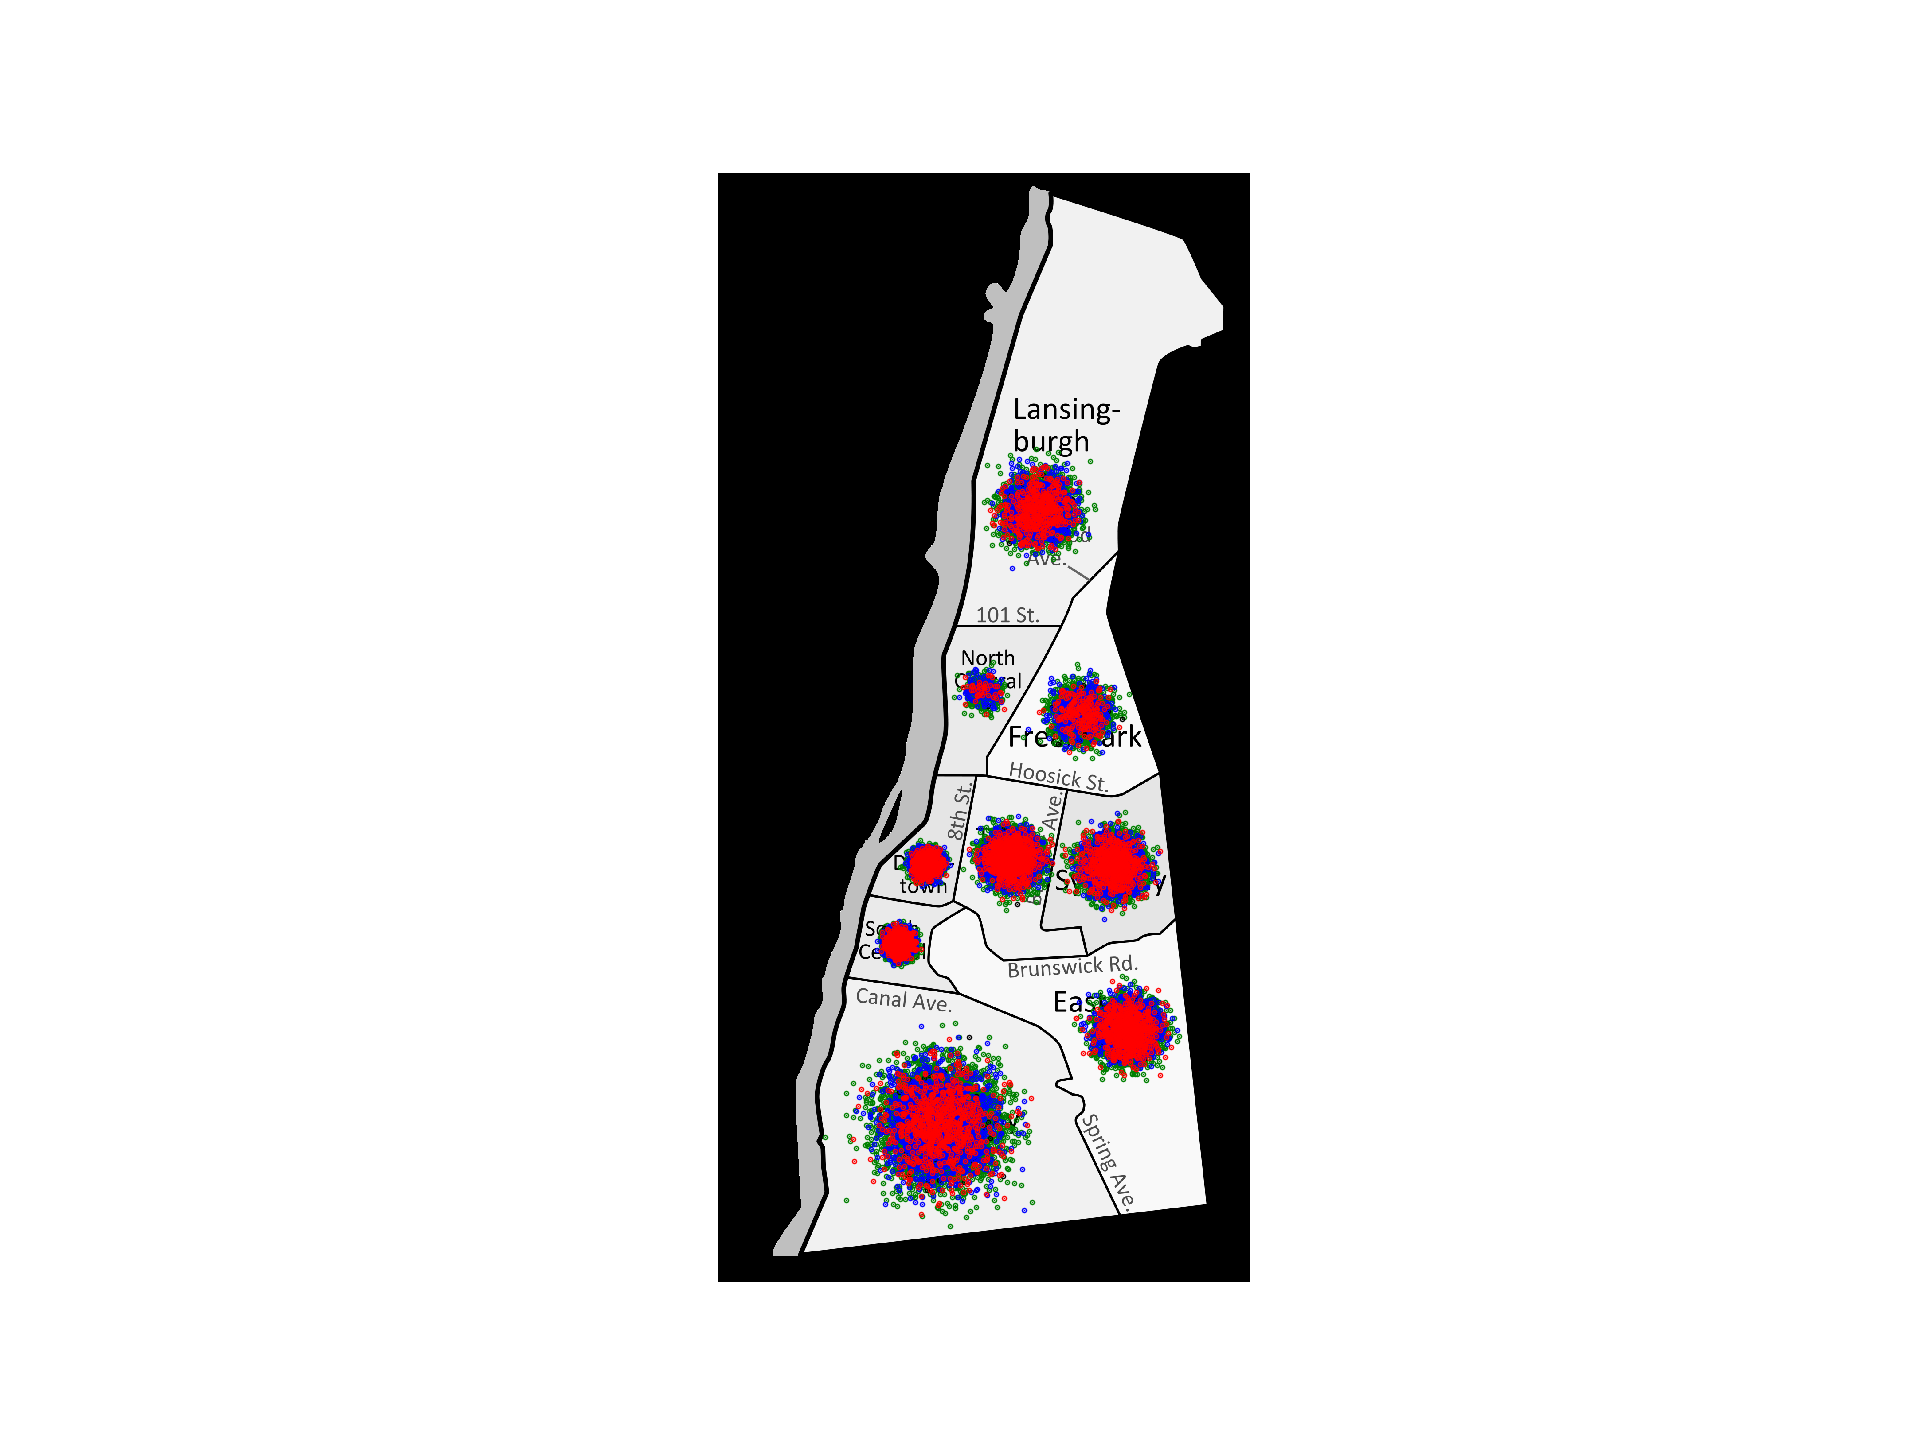
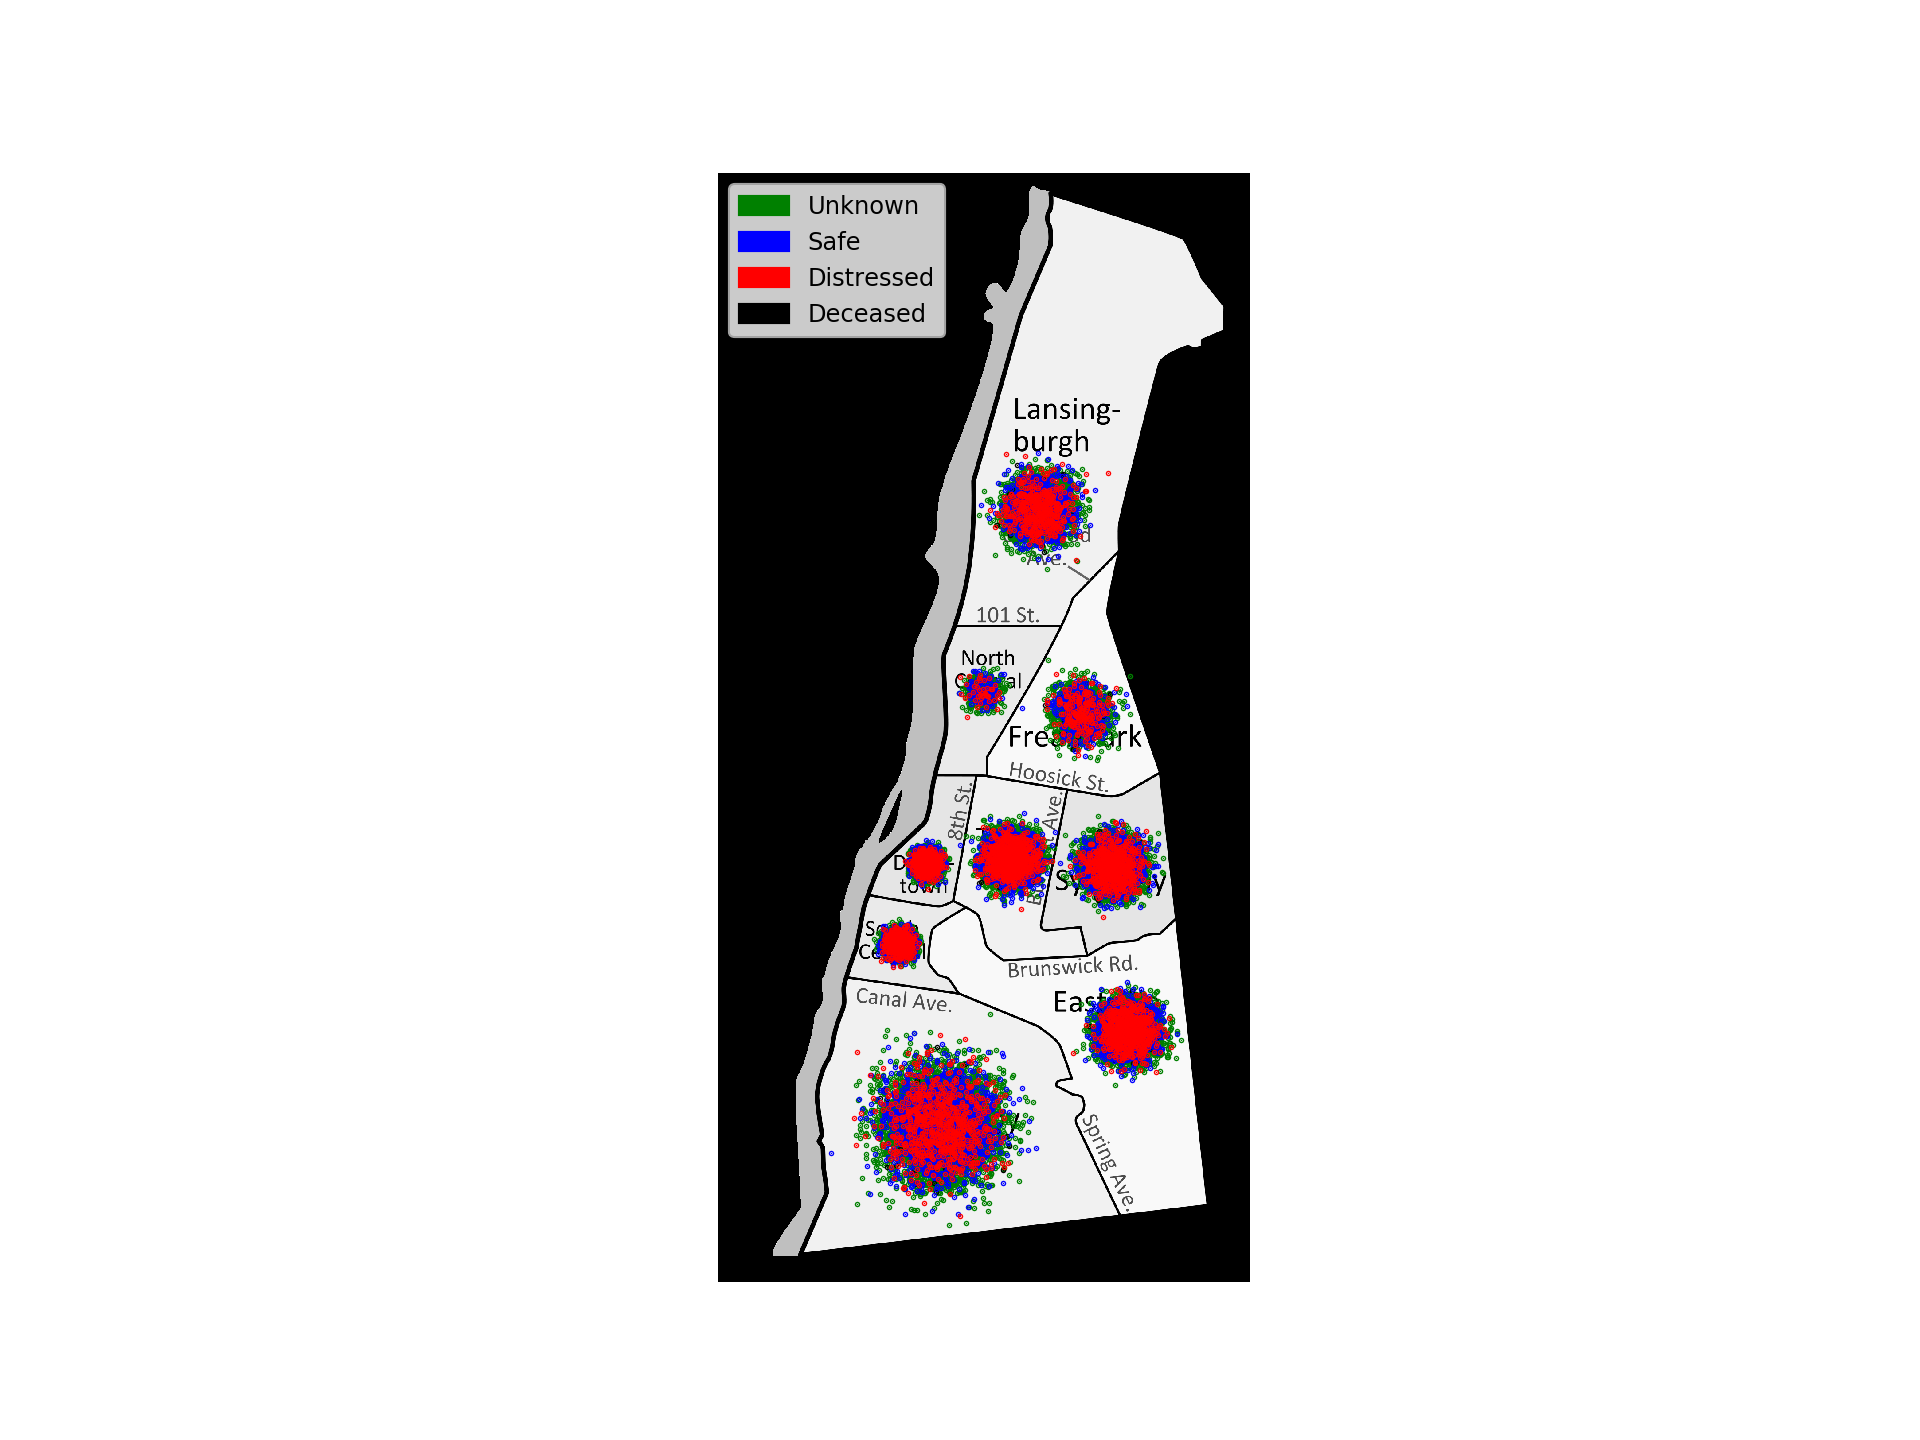
add legend

diff --git a/visualization/main.py b/visualization/main.py
@@ -4,13 +4,14 @@ import matplotlib as mpl
 mpl.use('TkAgg')
 mpl.rcParams['figure.dpi']= 300
 import matplotlib.pyplot as plt
+import matplotlib.patches as mpatches
 import cv2
 import json
 
 
 
 '''
-Troy population- 49374
+Troy population- 49874
 find centers of districts with distance to border 
     or pick n centers
 assign population to districts
@@ -18,7 +19,7 @@ assign population to districts
     for each person in a district, generate their distance from center with a Gaussian
 
 distribution
-49374
+49874
 downtown        8174
 the hill        8000
 south central   7500
@@ -27,7 +28,11 @@ Eastside        6700
 Sycaway         6000
 Lansingburgh    4000
 Frear park      2000
+North Central   500
 '''
+
+# TODO: add axes
+#
 
 class Event:
     def __init__(self, uid, status, time, xloc, yloc):
@@ -47,6 +52,16 @@ class City:
 
         for dname in self.districts:
             self.districts[dname].plotPop()
+
+        #Add legend
+        green_patch = mpatches.Patch(color='green', label='Unknown')
+        blue_patch = mpatches.Patch(color='blue', label='Safe')
+        red_patch = mpatches.Patch(color='red', label='Distressed')
+        black_patch = mpatches.Patch(color='black', label='Deceased')
+
+        lines = [green_patch, blue_patch, red_patch, black_patch]
+        labels = [line.get_label() for line in lines]
+        plt.legend(lines, labels, loc = 'upper left', fontsize = 'xx-small')
         
         #should clear plt
         #plt.show()
@@ -119,8 +134,12 @@ class District:
             if event.uid in self.safeUID:
                 self.safeUID.remove(event.uid)
 
+        elif event.status == 'unknown':
+            #intentionally ignoring this update
+            pass
+
         else:
-            print('ERROR: status {} not recognized, must be one of deceased, safe, distress'.format(event.status))
+            print('ERROR: status {} not recognized, must be one of deceased, safe, distress, unknown'.format(event.status))
 
 
         if self.unknownCount == 0:
@@ -138,7 +157,6 @@ def makeDistricts(districts):
 if __name__ == '__main__':
     im = cv2.imread('troy.png', cv2.IMREAD_GRAYSCALE)
     im = np.stack((im,)*3, axis=-1)
-    #plt.imshow(im)
 
     with open('districts.json') as jf:
         districts = makeDistricts(json.load(jf))
